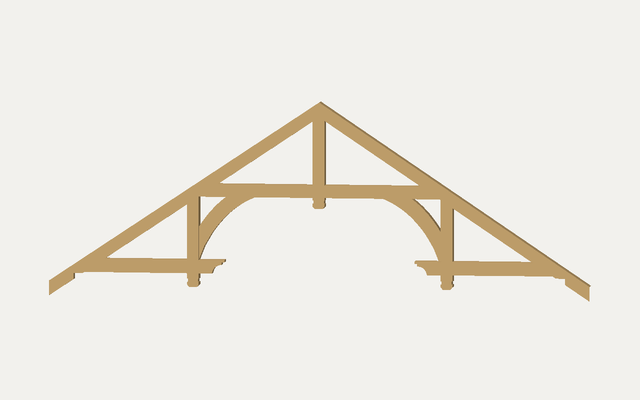
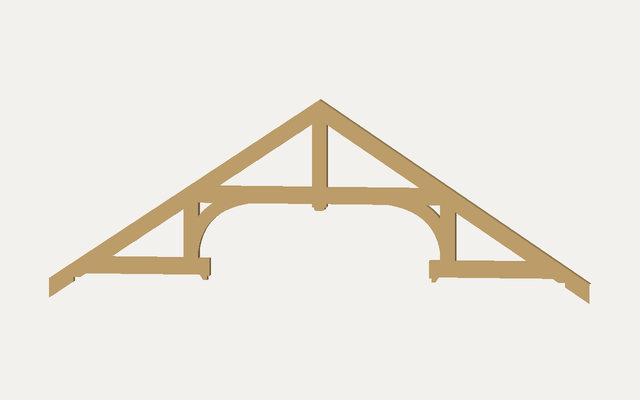
Repair connected Arched King and Hammer trusses above 16 feet

diff --git a/components/pavilion/reference-scene.tsx b/components/pavilion/reference-scene.tsx
@@ -873,5 +873,5 @@ const snowRailAdjust = useMemo(() => {
       position: snowRailPositionIn,
     };
   }, [roofMat.type, snowRailScale, snowRailRotationDeg, snowRailPositionIn, METAL_SNOW_RAIL_ADJUST]);
-return <SnowRailAdjustContext.Provider value={snowRailAdjust}><Scene showDimensions={props.showDimensions} padTileScale={padTileScale} measureEnabled={props.measureEnabled} config={config} view={props.view} allowUnderside={true} showRoof={props.showRoof} showTrusses={showTrusses} showFrame={showFrame} showRafters={showRafters} showPad={props.showPad} showTable={props.showTable} showSectional={props.showSectional} showEgg={props.showEgg} eggOffset={{ x: clampedEggOffset.x * 0.0254, z: clampedEggOffset.z * 0.0254 }} eggRotation={eggRotationDeg * Math.PI / 180} showTv={props.showTv} tvCorner={tvCorner} tvHeightFt={Math.max(5, Math.min(config.height - 2, tvHeightFt))} showDining={props.showDining} diningOffset={{ x: clampedDiningOffset.x * 0.0254, z: clampedDiningOffset.z * 0.0254 }} diningRotation={diningRotationDeg * Math.PI / 180} showPatio={props.showPatio} patioOffset={{ x: clampedPatioOffset.x * 0.0254, z: clampedPatioOffset.z * 0.0254 }} patioRotation={patioRotationDeg * Math.PI / 180} sofaOffset={{ x: clampedSofaOffset.x * 0.0254, z: clampedSofaOffset.z * 0.0254 }} sofaRotation={sofaRotationDeg * Math.PI / 180} tableOffset={{ x: clampedTableOffset.x * 0.0254, z: clampedTableOffset.z * 0.0254 }} tableRotation={tableRotationDeg * Math.PI / 180} tableStain={props.tableStain} deckStain={props.deckStain} stainOpacity={stainOpacity} stainDarkness={stainDarkness} grainAdjust={grainAdjust} grainPieces={grainPieces} grainFaces={grainFaces} handPeeledRandom={handPeeledRandom} rakeTrimAdjust={rakeTrimAdjust} metalRakeTrimAdjust={metalRakeTrimAdjust} shingleScale={shingleScale} shingleContrast={shingleContrast} shingleBrightness={shingleBrightness} shingleSaturate={shingleSaturate} shingleBumpScale={shingleBumpScale} shingleRoughness={shingleRoughness} shingleCapRotation={shingleCapRotation} shingleCapScale={shingleCapScale} shingleCapOffset={shingleCapOffset} shingleCapTextureScale={shingleCapTextureScale} hammerYOffset={hammerYOffsetIn * 0.0254} hammerScale={hammerScale} hammerGroupOffset={is20Wide ? { x: HAMMER20_BAKED_GROUP_OFFSET_IN.x * 0.0254, y: HAMMER20_BAKED_GROUP_OFFSET_IN.y * 0.0254, z: HAMMER20_BAKED_GROUP_OFFSET_IN.z * 0.0254 } : { x: 0, y: 0, z: 0 }} hammerCorbelScale={hammerCorbelScale} hammerCorbelOffset={{ x: hammerCorbelOffset.x * 0.0254, y: hammerCorbelOffset.y * 0.0254, z: hammerCorbelOffset.z * 0.0254 }} hammerCorbelRotation={{ x: hammerCorbelRotation.x * Math.PI / 180, y: hammerCorbelRotation.y * Math.PI / 180, z: hammerCorbelRotation.z * Math.PI / 180 }} hammerPieceOffsets={hammerPieceOffsets} hammerPieceScales={hammerPieceScales} hammerUniformProfile55={hammerUniformProfile55} hammer12Glb={hammer12GlbAdjust} hammer14Glb={hammer14GlbAdjust} hammer16Glb={hammer16GlbAdjust} hammer20Glb={hammer20GlbAdjust} plateOffset={{ x: plateOffsetIn.x * 0.0254, y: plateOffsetIn.y * 0.0254, z: plateOffsetIn.z * 0.0254 }} plateRotation={{ x: plateRotationDeg.x * Math.PI / 180, y: plateRotationDeg.y * Math.PI / 180, z: plateRotationDeg.z * Math.PI / 180 }} plateSizeScale={plateSizeScale} webPlateOffset={{ x: webPlateOffsetIn.x * 0.0254, y: webPlateOffsetIn.y * 0.0254, z: webPlateOffsetIn.z * 0.0254 }} webPlateRotation={{ x: webPlateRotationDeg.x * Math.PI / 180, y: webPlateRotationDeg.y * Math.PI / 180, z: webPlateRotationDeg.z * Math.PI / 180 }} webPlateSizeScale={webPlateSizeScale} vPlateSurfaceInset={vPlateSurfaceInsetIn * 0.0254} webPlateSurfaceInset={webPlateSurfaceInsetIn * 0.0254} peakPlateOffset={{ x: peakPlateOffsetIn.x * 0.0254, y: peakPlateOffsetIn.y * 0.0254, z: peakPlateOffsetIn.z * 0.0254 }} peakPlateRotation={{ x: peakPlateRotationDeg.x * Math.PI / 180, y: peakPlateRotationDeg.y * Math.PI / 180, z: peakPlateRotationDeg.z * Math.PI / 180 }} peakPlateSizeScale={peakPlateSizeScale} peakPlateSurfaceInset={peakPlateSurfaceInsetIn * 0.0254} archPlateOffset={{ x: archPlateOffsetIn.x * 0.0254, y: archPlateOffsetIn.y * 0.0254, z: archPlateOffsetIn.z * 0.0254 }} archPlateRotation={{ x: archPlateRotationDeg.x * Math.PI / 180, y: archPlateRotationDeg.y * Math.PI / 180, z: archPlateRotationDeg.z * Math.PI / 180 }} archPlateSizeScale={archPlateSizeScale} simplePlateOffset={{ x: simplePlateOffsetIn.x * 0.0254, y: simplePlateOffsetIn.y * 0.0254, z: simplePlateOffsetIn.z * 0.0254 }} simplePlateRotation={{ x: simplePlateRotationDeg.x * Math.PI / 180, y: simplePlateRotationDeg.y * Math.PI / 180, z: simplePlateRotationDeg.z * Math.PI / 180 }} simplePlateSizeScale={simplePlateSizeScale} topPlateOffset={{ x: topPlateOffsetIn.x * 0.0254, y: topPlateOffsetIn.y * 0.0254, z: topPlateOffsetIn.z * 0.0254 }} topPlateRotation={{ x: topPlateRotationDeg.x * Math.PI / 180, y: topPlateRotationDeg.y * Math.PI / 180, z: topPlateRotationDeg.z * Math.PI / 180 }} topPlateSizeScale={topPlateSizeScale} webPlate2Offset={{ x: webPlate2OffsetIn.x * 0.0254, y: webPlate2OffsetIn.y * 0.0254, z: webPlate2OffsetIn.z * 0.0254 }} webPlate2Rotation={{ x: webPlate2RotationDeg.x * Math.PI / 180, y: webPlate2RotationDeg.y * Math.PI / 180, z: webPlate2RotationDeg.z * Math.PI / 180 }} webPlate2SizeScale={webPlate2SizeScale} kingPeakPlateOffset={{ x: kingPeakPlateOffsetIn.x * 0.0254, y: kingPeakPlateOffsetIn.y * 0.0254, z: kingPeakPlateOffsetIn.z * 0.0254 }} kingPeakPlateRotation={{ x: kingPeakPlateRotationDeg.x * Math.PI / 180, y: kingPeakPlateRotationDeg.y * Math.PI / 180, z: kingPeakPlateRotationDeg.z * Math.PI / 180 }} kingPeakPlateSizeScale={kingPeakPlateSizeScale} kingHeelPlateOffset={{ x: kingHeelPlateOffsetIn.x * 0.0254, y: kingHeelPlateOffsetIn.y * 0.0254, z: kingHeelPlateOffsetIn.z * 0.0254 }} kingHeelPlateRotation={{ x: kingHeelPlateRotationDeg.x * Math.PI / 180, y: kingHeelPlateRotationDeg.y * Math.PI / 180, z: kingHeelPlateRotationDeg.z * Math.PI / 180 }} kingHeelPlateSizeScale={kingHeelPlateSizeScale} kingWebPlateOffset={{ x: kingWebPlateOffsetIn.x * 0.0254, y: kingWebPlateOffsetIn.y * 0.0254, z: kingWebPlateOffsetIn.z * 0.0254 }} kingWebPlateRotation={{ x: kingWebPlateRotationDeg.x * Math.PI / 180, y: kingWebPlateRotationDeg.y * Math.PI / 180, z: kingWebPlateRotationDeg.z * Math.PI / 180 }} kingWebPlateSizeScale={kingWebPlateSizeScale} kingHeelPlate2Offset={{ x: kingHeelPlate2OffsetIn.x * 0.0254, y: kingHeelPlate2OffsetIn.y * 0.0254, z: kingHeelPlate2OffsetIn.z * 0.0254 }} kingHeelPlate2Rotation={{ x: kingHeelPlate2RotationDeg.x * Math.PI / 180, y: kingHeelPlate2RotationDeg.y * Math.PI / 180, z: kingHeelPlate2RotationDeg.z * Math.PI / 180 }} kingHeelPlate2SizeScale={kingHeelPlate2SizeScale} trussPlateExtraOffsets={trussPlateExtraOffsets}  grassDensity={grassDensity} grassTint={grassTint} grassTexture={grassTexture} rawBeamColor={rawBeamColor} rawDeckColor={rawDeckColor} roofOnlyLiftIn={config.truss === "hammer" ? (roofOnlyLiftByWidth[config.width] ?? 0) : 0} pieceAdjusts={pieceAdjusts} cloudSpread={cloudSpread} cloudConcentration={cloudConcentration} cloudHeight={cloudHeight} showBackyard={props.showBackyard}  /></SnowRailAdjustContext.Provider>;
+return <SnowRailAdjustContext.Provider value={snowRailAdjust}><Scene showDimensions={props.showDimensions} padTileScale={padTileScale} measureEnabled={props.measureEnabled} config={config} view={props.view} allowUnderside={true} showRoof={props.showRoof} showTrusses={showTrusses} showFrame={showFrame} showRafters={showRafters} showPad={props.showPad} showTable={props.showTable} showSectional={props.showSectional} showEgg={props.showEgg} eggOffset={{ x: clampedEggOffset.x * 0.0254, z: clampedEggOffset.z * 0.0254 }} eggRotation={eggRotationDeg * Math.PI / 180} showTv={props.showTv} tvCorner={tvCorner} tvHeightFt={Math.max(5, Math.min(config.height - 2, tvHeightFt))} showDining={props.showDining} diningOffset={{ x: clampedDiningOffset.x * 0.0254, z: clampedDiningOffset.z * 0.0254 }} diningRotation={diningRotationDeg * Math.PI / 180} showPatio={props.showPatio} patioOffset={{ x: clampedPatioOffset.x * 0.0254, z: clampedPatioOffset.z * 0.0254 }} patioRotation={patioRotationDeg * Math.PI / 180} sofaOffset={{ x: clampedSofaOffset.x * 0.0254, z: clampedSofaOffset.z * 0.0254 }} sofaRotation={sofaRotationDeg * Math.PI / 180} tableOffset={{ x: clampedTableOffset.x * 0.0254, z: clampedTableOffset.z * 0.0254 }} tableRotation={tableRotationDeg * Math.PI / 180} tableStain={props.tableStain} deckStain={props.deckStain} stainOpacity={stainOpacity} stainDarkness={stainDarkness} grainAdjust={grainAdjust} grainPieces={grainPieces} grainFaces={grainFaces} handPeeledRandom={handPeeledRandom} rakeTrimAdjust={rakeTrimAdjust} metalRakeTrimAdjust={metalRakeTrimAdjust} shingleScale={shingleScale} shingleContrast={shingleContrast} shingleBrightness={shingleBrightness} shingleSaturate={shingleSaturate} shingleBumpScale={shingleBumpScale} shingleRoughness={shingleRoughness} shingleCapRotation={shingleCapRotation} shingleCapScale={shingleCapScale} shingleCapOffset={shingleCapOffset} shingleCapTextureScale={shingleCapTextureScale} hammerYOffset={hammerYOffsetIn * 0.0254} hammerScale={hammerScale} hammerGroupOffset={is20Wide ? { x: HAMMER20_BAKED_GROUP_OFFSET_IN.x * 0.0254, y: HAMMER20_BAKED_GROUP_OFFSET_IN.y * 0.0254, z: HAMMER20_BAKED_GROUP_OFFSET_IN.z * 0.0254 } : { x: 0, y: 0, z: 0 }} hammerCorbelScale={hammerCorbelScale} hammerCorbelOffset={{ x: hammerCorbelOffset.x * 0.0254, y: hammerCorbelOffset.y * 0.0254, z: hammerCorbelOffset.z * 0.0254 }} hammerCorbelRotation={{ x: hammerCorbelRotation.x * Math.PI / 180, y: hammerCorbelRotation.y * Math.PI / 180, z: hammerCorbelRotation.z * Math.PI / 180 }} hammerPieceOffsets={hammerPieceOffsets} hammerPieceScales={hammerPieceScales} hammerUniformProfile55={hammerUniformProfile55} hammer12Glb={hammer12GlbAdjust} hammer14Glb={hammer14GlbAdjust} hammer16Glb={hammer16GlbAdjust} hammer20Glb={hammer20GlbAdjust} plateOffset={{ x: plateOffsetIn.x * 0.0254, y: plateOffsetIn.y * 0.0254, z: plateOffsetIn.z * 0.0254 }} plateRotation={{ x: plateRotationDeg.x * Math.PI / 180, y: plateRotationDeg.y * Math.PI / 180, z: plateRotationDeg.z * Math.PI / 180 }} plateSizeScale={plateSizeScale} webPlateOffset={{ x: webPlateOffsetIn.x * 0.0254, y: webPlateOffsetIn.y * 0.0254, z: webPlateOffsetIn.z * 0.0254 }} webPlateRotation={{ x: webPlateRotationDeg.x * Math.PI / 180, y: webPlateRotationDeg.y * Math.PI / 180, z: webPlateRotationDeg.z * Math.PI / 180 }} webPlateSizeScale={webPlateSizeScale} vPlateSurfaceInset={vPlateSurfaceInsetIn * 0.0254} webPlateSurfaceInset={webPlateSurfaceInsetIn * 0.0254} peakPlateOffset={{ x: peakPlateOffsetIn.x * 0.0254, y: peakPlateOffsetIn.y * 0.0254, z: peakPlateOffsetIn.z * 0.0254 }} peakPlateRotation={{ x: peakPlateRotationDeg.x * Math.PI / 180, y: peakPlateRotationDeg.y * Math.PI / 180, z: peakPlateRotationDeg.z * Math.PI / 180 }} peakPlateSizeScale={peakPlateSizeScale} peakPlateSurfaceInset={peakPlateSurfaceInsetIn * 0.0254} archPlateOffset={{ x: archPlateOffsetIn.x * 0.0254, y: archPlateOffsetIn.y * 0.0254, z: archPlateOffsetIn.z * 0.0254 }} archPlateRotation={{ x: archPlateRotationDeg.x * Math.PI / 180, y: archPlateRotationDeg.y * Math.PI / 180, z: archPlateRotationDeg.z * Math.PI / 180 }} archPlateSizeScale={archPlateSizeScale} simplePlateOffset={{ x: simplePlateOffsetIn.x * 0.0254, y: simplePlateOffsetIn.y * 0.0254, z: simplePlateOffsetIn.z * 0.0254 }} simplePlateRotation={{ x: simplePlateRotationDeg.x * Math.PI / 180, y: simplePlateRotationDeg.y * Math.PI / 180, z: simplePlateRotationDeg.z * Math.PI / 180 }} simplePlateSizeScale={simplePlateSizeScale} topPlateOffset={{ x: topPlateOffsetIn.x * 0.0254, y: topPlateOffsetIn.y * 0.0254, z: topPlateOffsetIn.z * 0.0254 }} topPlateRotation={{ x: topPlateRotationDeg.x * Math.PI / 180, y: topPlateRotationDeg.y * Math.PI / 180, z: topPlateRotationDeg.z * Math.PI / 180 }} topPlateSizeScale={topPlateSizeScale} webPlate2Offset={{ x: webPlate2OffsetIn.x * 0.0254, y: webPlate2OffsetIn.y * 0.0254, z: webPlate2OffsetIn.z * 0.0254 }} webPlate2Rotation={{ x: webPlate2RotationDeg.x * Math.PI / 180, y: webPlate2RotationDeg.y * Math.PI / 180, z: webPlate2RotationDeg.z * Math.PI / 180 }} webPlate2SizeScale={webPlate2SizeScale} kingPeakPlateOffset={{ x: kingPeakPlateOffsetIn.x * 0.0254, y: kingPeakPlateOffsetIn.y * 0.0254, z: kingPeakPlateOffsetIn.z * 0.0254 }} kingPeakPlateRotation={{ x: kingPeakPlateRotationDeg.x * Math.PI / 180, y: kingPeakPlateRotationDeg.y * Math.PI / 180, z: kingPeakPlateRotationDeg.z * Math.PI / 180 }} kingPeakPlateSizeScale={kingPeakPlateSizeScale} kingHeelPlateOffset={{ x: kingHeelPlateOffsetIn.x * 0.0254, y: kingHeelPlateOffsetIn.y * 0.0254, z: kingHeelPlateOffsetIn.z * 0.0254 }} kingHeelPlateRotation={{ x: kingHeelPlateRotationDeg.x * Math.PI / 180, y: kingHeelPlateRotationDeg.y * Math.PI / 180, z: kingHeelPlateRotationDeg.z * Math.PI / 180 }} kingHeelPlateSizeScale={kingHeelPlateSizeScale} kingWebPlateOffset={{ x: kingWebPlateOffsetIn.x * 0.0254, y: kingWebPlateOffsetIn.y * 0.0254, z: kingWebPlateOffsetIn.z * 0.0254 }} kingWebPlateRotation={{ x: kingWebPlateRotationDeg.x * Math.PI / 180, y: kingWebPlateRotationDeg.y * Math.PI / 180, z: kingWebPlateRotationDeg.z * Math.PI / 180 }} kingWebPlateSizeScale={kingWebPlateSizeScale} kingHeelPlate2Offset={{ x: kingHeelPlate2OffsetIn.x * 0.0254, y: kingHeelPlate2OffsetIn.y * 0.0254, z: kingHeelPlate2OffsetIn.z * 0.0254 }} kingHeelPlate2Rotation={{ x: kingHeelPlate2RotationDeg.x * Math.PI / 180, y: kingHeelPlate2RotationDeg.y * Math.PI / 180, z: kingHeelPlate2RotationDeg.z * Math.PI / 180 }} kingHeelPlate2SizeScale={kingHeelPlate2SizeScale} trussPlateExtraOffsets={trussPlateExtraOffsets}  grassDensity={grassDensity} grassTint={grassTint} grassTexture={grassTexture} rawBeamColor={rawBeamColor} rawDeckColor={rawDeckColor} roofOnlyLiftIn={config.truss === "hammer" && config.width <= 16 ? (roofOnlyLiftByWidth[config.width] ?? 0) : 0} pieceAdjusts={pieceAdjusts} cloudSpread={cloudSpread} cloudConcentration={cloudConcentration} cloudHeight={cloudHeight} showBackyard={props.showBackyard}  /></SnowRailAdjustContext.Provider>;
 }

diff --git a/components/pavilion/Pavilion3D.tsx b/components/pavilion/Pavilion3D.tsx
@@ -1,3 +1,4 @@
+import {createWideTruss,type WideTrussStyle} from './wide-truss-geometry';
 import {expandedFrame,pavilionStations} from '@/lib/pavilion-layout';
 import { configureTimberMaterial } from './timber-grain';
 import { snowGuardPositions, snowRailLength, snowRoofLength } from '@/lib/snow-retention';
@@ -2076,7 +2077,7 @@ function SteelVJointPlate({
   );
 }
 
-function RuntimeArchTruss({
+function SmallRuntimeArchTruss({
   span,
   z,
   baseY,
@@ -2168,7 +2169,7 @@ function RuntimeArchTruss({
   );
 }
 
-function RuntimeHammerTruss({
+function SmallRuntimeHammerTruss({
   span,
   z,
   baseY,
@@ -2266,6 +2267,27 @@ function RuntimeHammerTruss({
 
 
 
+function WideTruss({style,span,z,baseY,peakY,color,memberHeightIn=6,plates=false,seatLower=0,tailStyle="standard",isOuter=true,exteriorFace=1}: {
+  style:WideTrussStyle;span:number;z:number;baseY:number;peakY:number;color:string;memberHeightIn?:number;
+  plates?:boolean;seatLower?:number;tailStyle?:"standard"|"scroll";isOuter?:boolean;exteriorFace?:1|-1;
+}) {
+  const rise=peakY-baseY;
+  const model=useMemo(()=>createWideTruss(style,span,rise,memberHeightIn),[style,span,rise,memberHeightIn]);
+  useEffect(()=>()=>{model.members.forEach(m=>m.geometry.dispose());model.plates.forEach(p=>p.geometry.dispose());},[model]);
+  const pitchAngle=Math.atan(model.pitch),half=span/2,IN=.0254;
+  return <group name={`wide-${style}-truss`} position={[0,baseY,z]}>
+    {([-1,1] as const).map(side=><PlumbRafter key={side} iy={rise} outerX={half+16*IN} pitchAngle={pitchAngle} t={model.profile} depth={model.depth} side={side} color={color} seatX={half+4*IN} seatY={-seatLower} piece={`wide.${style}.rafter.${side<0?'l':'r'}`} tailStyle={tailStyle} parametricTail />)}
+    {model.members.map(m=><mesh key={m.id} geometry={m.geometry} castShadow receiveShadow><WoodMaterial color={color} category="truss" piece={m.id} singleMaterial /></mesh>)}
+    {plates&&model.plates.flatMap(p=>(p.peak?(isOuter?[exteriorFace]:[]):[1,-1]).map(face=><mesh key={p.id+face} geometry={p.geometry} position={[0,0,face*(model.depth/2+.125*IN+.0005)]} castShadow receiveShadow><meshStandardMaterial color="#141414" roughness={.4} metalness={.85}/></mesh>))}
+  </group>;
+}
+function RuntimeArchTruss(props:Omit<Parameters<typeof WideTruss>[0],'style'>) {
+  return <WideTruss {...props} style="arch" />;
+}
+function RuntimeHammerTruss({showPeakPlate=true,peakPlateFace=1,...props}:Omit<Parameters<typeof WideTruss>[0],'style'|'isOuter'|'exteriorFace'>&{showPeakPlate?:boolean;peakPlateFace?:1|-1|0}) {
+  return <WideTruss {...props} style="hammer" isOuter={showPeakPlate&&peakPlateFace!==0} exteriorFace={peakPlateFace===-1?-1:1} />;
+}
+
 function ArchedBrace({
   postX,
   postZ,
@@ -2332,6 +2354,7 @@ function PlumbRafter({
   seatY = 0,
   piece,
   tailStyle = "standard",
+  parametricTail = false,
 }: {
   iy: number;
   outerX: number;
@@ -2344,6 +2367,7 @@ function PlumbRafter({
   seatY?: number;
   piece?: string;
   tailStyle?: "standard" | "scroll";
+  parametricTail?: boolean;
 }) {
   const scrollGeom = useScrollCutRafterGeometry(outerX / Math.cos(pitchAngle), t, depth);
   const geom = useMemo(() => {
@@ -2451,7 +2475,7 @@ function PlumbRafter({
     }
     return g;
   }, [iy, outerX, pitchAngle, t, depth, side, seatX, seatY, tailStyle]);
-  if (tailStyle === "scroll") {
+  if (tailStyle === "scroll" && !parametricTail) {
     // Render the uploaded scroll-cut rafter STL in place of the procedural shape.
     // Peak/top-edge of the STL is at (0,0); pivot at the rafter's inner-top
     // corner (matches PlumbRafter's local frame), then mirror + rotate down.
@@ -3918,8 +3942,9 @@ export function Pavilion({ config, showRoof = true, showTrusses = true, showFram
   // Lift roof so its underside sits on top of the truss/rafter top edges.
   // Rafters seat on top of the girder (lift = beamT/2 above beamY), and the
   // rafter top edge is rafterT / cos(angle) above the rafter seat.
-  // Sheet profiles describe the King package; alternate styles retain their authored geometry.
-  const rafterHeightIn = frame && (frame.runtimeTruss || config.truss === "king" || config.truss === "none") ? frame.rafterIn[1] : 6;
+  // Wider alternate trusses share the sheet rafter section and roof envelope.
+  // The established 12–16-foot alternate drawings retain their original section.
+  const rafterHeightIn = frame && (config.width > 16 || frame.runtimeTruss || config.truss === "king" || config.truss === "none") ? frame.rafterIn[1] : 6;
   const rafterT = rafterHeightIn * 0.0254;
   const slopeLen = Math.hypot(1, pitch);
   // Raise the trusses + rafters as one piece so the birdsmouth notch can be
@@ -3975,7 +4000,7 @@ export function Pavilion({ config, showRoof = true, showTrusses = true, showFram
       <PieceAdjuster
         rootRef={pavRootRef}
         adjusts={(() => {
-          const src = pieceAdjusts ?? {};
+          const src = config.width > 16 && (config.truss === "arch" || config.truss === "hammer") ? {} : pieceAdjusts ?? {};
           // Rafter pieces are only adjustable when scroll-cut tails are
           // selected. With standard tails, rafter positions stay baked.
           const filtered: Record<string, PieceAdjust> = {};
@@ -4191,20 +4216,19 @@ export function Pavilion({ config, showRoof = true, showTrusses = true, showFram
               tailStyle: config.rafterTail,
             };
             if (config.truss === "arch") {
-              if (frame?.runtimeTruss || isLargeRuntimeSpan(common.span)) {
+              if (config.width > 16) {
                 return <RuntimeArchTruss key={`rat-${i}`} {...common} memberHeightIn={rafterHeightIn} plates={config.trussPlates} isOuter={i === 0 || i === count - 1} exteriorFace={i === 0 ? -1 : 1} />;
               }
+              if(frame?.runtimeTruss)return <SmallRuntimeArchTruss key={`sat-${i}`} {...common} memberHeightIn={rafterHeightIn} isOuter={i===0||i===count-1} exteriorFace={i===0?-1:1}/>;
               return <ArchTruss key={`at-${i}`} {...common} plates={config.trussPlates} archPlateOffset={archPlateOffset} archPlateRotation={archPlateRotation} archPlateSizeScale={archPlateSizeScale} simplePlateOffset={simplePlateOffset} simplePlateRotation={simplePlateRotation} simplePlateSizeScale={simplePlateSizeScale} topPlateOffset={topPlateOffset} topPlateRotation={topPlateRotation} topPlateSizeScale={topPlateSizeScale} webPlate2Offset={webPlate2Offset} webPlate2Rotation={webPlate2Rotation} webPlate2SizeScale={webPlate2SizeScale} isOuter={i === 0 || i === count - 1} exteriorFace={i === 0 ? -1 : 1} />;
             }
             if (config.truss === "hammer") {
-              if (frame?.runtimeTruss || isLargeRuntimeSpan(common.span)) {
+              if (config.width > 16) {
                 return <RuntimeHammerTruss key={`rht-${i}`} {...common} memberHeightIn={rafterHeightIn} plates={config.trussPlates} showPeakPlate={i === 0 || i === count - 1} peakPlateFace={i === 0 ? -1 : i === count - 1 ? 1 : 0} />;
               }
-              // Every hand-modeled hammer GLB auto-fits its widest horizontal
-              // axis to the requested `span`, so widths above 20′ (24/28/32)
-              // safely reuse the 20′ GLB stretched to the larger pavilion span
-              // instead of falling through to the older procedural truss which
-              // was never calibrated past ~16′.
+              if(frame?.runtimeTruss)return <SmallRuntimeHammerTruss key={`sht-${i}`} {...common} memberHeightIn={rafterHeightIn} showPeakPlate={i===0||i===count-1} peakPlateFace={i===0?-1:i===count-1?1:0}/>;
+              // Preserve the established small-span procedural drawings.
+              // Wider spans have already returned the connected WideTruss above.
               if (
                 config.width === 12 ||
                 config.width === 14 ||
@@ -4310,6 +4334,7 @@ export function Pavilion({ config, showRoof = true, showTrusses = true, showFram
                   seatX={half + 4 * IN}
                   seatY={-TRUSS_LIFT}
                   piece={`side.rafter.${s === 1 ? "r" : "l"}`}
+                  parametricTail={config.width>16&&(config.truss==="arch"||config.truss==="hammer")}
                   tailStyle={config.rafterTail}
                 />
               ))}
@@ -4350,6 +4375,7 @@ export function Pavilion({ config, showRoof = true, showTrusses = true, showFram
                   side={s as 1 | -1}
                   color={wood}
                   piece={`side.rafter.${s === 1 ? "r" : "l"}`}
+                  parametricTail={config.width>16&&(config.truss==="arch"||config.truss==="hammer")}
                   tailStyle={config.rafterTail}
                 />
               ))}

diff --git a/components/pavilion/wide-truss-geometry.ts b/components/pavilion/wide-truss-geometry.ts
@@ -1,0 +1,89 @@
+import * as THREE from 'three';
+
+type Point = [number, number];
+export type WideTrussStyle = 'arch' | 'hammer';
+export type WideMember = {id:string;geometry:THREE.BufferGeometry;outline:Point[]};
+export type WideJoint = {id:string;point:Point;width:number;height:number;angle?:number;peak?:boolean};
+
+const IN=.0254;
+function rectangle(a:Point,b:Point,thickness:number):Point[] {
+  const length=Math.hypot(b[0]-a[0],b[1]-a[1]);
+  const x=-(b[1]-a[1])/length*thickness/2,y=(b[0]-a[0])/length*thickness/2;
+  return [[a[0]+x,a[1]+y],[b[0]+x,b[1]+y],[b[0]-x,b[1]-y],[a[0]-x,a[1]-y]];
+}
+function clip(points:Point[],a:number,b:number,limit:number):Point[] {
+  const result:Point[]=[];
+  for(let i=0;i<points.length;i++){
+    const p=points[i],q=points[(i+1)%points.length],d=a*p[0]+b*p[1]-limit,e=a*q[0]+b*q[1]-limit;
+    if(d<=0)result.push(p);
+    if((d<=0)!==(e<=0)){const t=d/(d-e);result.push([p[0]+t*(q[0]-p[0]),p[1]+t*(q[1]-p[1])]);}
+  }
+  return result;
+}
+export function extrudeOutline(outline:Point[],depth:number) {
+  const shape=new THREE.Shape(outline.map(p=>new THREE.Vector2(...p)));shape.closePath();
+  const geometry=new THREE.ExtrudeGeometry(shape,{depth,bevelEnabled:false,steps:1});
+  geometry.translate(0,0,-depth/2);geometry.computeBoundingBox();return geometry;
+}
+
+/** Connected, dimension-driven versions of the working 16-foot silhouettes.
+ * All positions use the same truss-local roof coordinates as the rafters.
+ * Member sections stay constant as span changes; no whole-model stretching or
+ * historical per-width offsets can pull these joints apart. */
+export function createWideTruss(style:WideTrussStyle,span:number,rise:number,memberHeightIn=6) {
+  const half=span/2,pitch=rise/half,profile=memberHeightIn*IN,depth=5.5*IN;
+  const roofTop=rise+profile*Math.hypot(1,pitch)/2;
+  const members:WideMember[]=[],joints:WideJoint[]=[];
+  const insideRoof=(points:Point[])=>clip(clip(points,pitch,1,roofTop-.001),-pitch,1,roofTop-.001);
+  const add=(id:string,points:Point[])=>{const outline=insideRoof(points);members.push({id:`wide.${style}.${id}`,outline,geometry:extrudeOutline(outline,depth)});};
+  const beam=(id:string,a:Point,b:Point,t=profile)=>add(id,rectangle(a,b,t));
+  const reflect=(points:Point[],side:number):Point[]=>points.map(([x,y])=>[side*x,y]);
+  const pendant=(id:string,bottom:number,top:number,w:number)=>add(id,[[-w/2,top],[w/2,top],[w/2,bottom+.22*profile],[w*.36,bottom+.22*profile],[w*.36,bottom+.08*profile],[w*.24,bottom],[-w*.24,bottom],[-w*.36,bottom+.08*profile],[-w*.36,bottom+.22*profile],[-w/2,bottom+.22*profile]]);
+  const kingTop=rise-profile*Math.hypot(1,pitch)/2+profile*.14;
+  if(style==='arch'){
+    const crown=rise*.38,archDepth=profile*.92;
+    // Two sawn curved chords share a continuous crown at the king post.
+    for(const side of [-1,1]){
+      const upper:Point[]=[],lower:Point[]=[];
+      for(let i=0;i<=48;i++){const x=half*i/48,y=crown*(1-(x/half)**2);upper.push([x,y+archDepth/2]);lower.push([x,y-archDepth/2]);}
+      add(`wing.${side<0?'l':'r'}`,reflect([...upper,...lower.reverse()],side));
+      const startX=profile*.25,startY=crown+profile*.18;
+      const endX=(rise-profile*Math.hypot(1,pitch)/2+profile*.14-startY+.8*startX)/(pitch+.8);
+      const endY=rise-pitch*endX-profile*Math.hypot(1,pitch)/2+profile*.14;
+      // Start inside the king/chord joint, rather than floating above the arch.
+      beam(`strut.${side<0?'l':'r'}`,[side*startX,startY],[side*endX,endY],profile*.78);
+      joints.push({id:`heel.${side}`,point:[side*(half-profile*.22),profile*.1],width:profile*1.25,height:profile*.72});
+      joints.push({id:`web.${side}`,point:[side*endX,endY],width:profile*.78,height:profile*1.15,angle:side*Math.atan(pitch)});
+    }
+    pendant('kingpost',crown-profile*1.12,kingTop,profile*.86);
+    joints.push({id:'crown',point:[0,crown],width:profile*1.15,height:profile*1.2});
+  } else {
+    const collarY=rise*.46,princeX=(rise-collarY)/pitch,beamY=profile*.08,innerX=princeX-profile*1.15;
+    // A continuous upper tie connects the princes and king post. End bevels
+    // are cut against the roof planes, not independently scaled drawings.
+    beam('collar',[-princeX-profile*.5,collarY],[princeX+profile*.5,collarY]);
+    pendant('kingpost',collarY-profile*.92,kingTop,profile*.88);
+    for(const side of [-1,1]){
+      const id=side<0?'l':'r',outer=half+profile*.08;
+      add(`hammer.${id}`,reflect([[outer,beamY+profile/2],[innerX,beamY+profile/2],[innerX,beamY-profile*.56],[innerX+profile*.16,beamY-profile*.56],[innerX+profile*.16,beamY-profile*.82],[innerX+profile*.4,beamY-profile*.82],[innerX+profile*.62,beamY-profile/2],[outer,beamY-profile/2]],side));
+      beam(`prince.${id}`,[side*princeX,beamY],[side*princeX,collarY],profile*.9);
+      // The curved knee spans from the hammer/prince joint to the underside
+      // of the upper tie, recreating the open central arch of the 16' design.
+      const curve=new THREE.QuadraticBezierCurve(new THREE.Vector2(princeX,beamY+profile*.18),new THREE.Vector2(princeX,collarY),new THREE.Vector2(princeX*.35,collarY));
+      const upper:Point[]=[],lower:Point[]=[];
+      for(let i=0;i<=48;i++){const t=i/48,p=curve.getPoint(t),v=curve.getTangent(t),n=new THREE.Vector2(-v.y,v.x).multiplyScalar(profile*.4);upper.push([p.x+n.x,p.y+n.y]);lower.push([p.x-n.x,p.y-n.y]);}
+      add(`knee.${id}`,reflect([...upper,...lower.reverse()],side));
+      joints.push({id:`heel.${side}`,point:[side*(half-profile*.25),beamY],width:profile*1.25,height:profile*.68});
+      joints.push({id:`prince.${side}`,point:[side*princeX,collarY-profile*.12],width:profile*1.15,height:profile*.92});
+    }
+    joints.push({id:'collar',point:[0,collarY],width:profile*1.2,height:profile*1.15});
+  }
+  joints.push({id:'peak',point:[0,rise-profile*.55],width:profile*.82,height:profile*1.15,peak:true});
+  // Plates are cut against exactly the same roof envelope as the timbers.
+  const plates=joints.map(j=>{
+    const c=Math.cos(j.angle??0),s=Math.sin(j.angle??0);
+    const points:Point[]=[[-j.width/2,-j.height/2],[j.width/2,-j.height/2],[j.width/2,j.height/2],[-j.width/2,j.height/2]].map(([x,y])=>[j.point[0]+x*c-y*s,j.point[1]+x*s+y*c]);
+    return {...j,geometry:extrudeOutline(insideRoof(points),.25*IN)};
+  });
+  return {members,plates,depth,profile,pitch,roofTop};
+}

diff --git a/docs/SOURCE_NOTES.md b/docs/SOURCE_NOTES.md
@@ -118,3 +118,11 @@ Added this release: 10×10, 10×14, 10×24; 18×18, 18×20 Hammerbeam, 18×32, 1
 10×10 is a prebuilt King package with a 6/12 roof. 18×20 offers the sheet's Hammerbeam package. 30×34, 30×40 and 32×32 start at the sheet's 10-foot post setting; 32×32 has a 6/12 roof. Size changes select compatible trusses and heights, and shared designs are validated against those restrictions. New width families use parametric trusses and joint plates with the sheet profiles. Curved timber members have flat faces and square edges; longitudinal grain mapping remains shared by all timbers. The 22×60 preview has fourteen posts, four trusses and twelve intermediate rafter pairs. All station positions remain symmetric visualization assumptions, not shop drawings. Existing post-height convention is retained.
 
 Published catalogs adopt only the added sizes' approved base roof prices once using a pricing revision marker. Original retail rows and per-option administrator overrides survive; subsequent admin blanks and zero prices also survive. Unknown option upgrades still require a quote, and blank bases still block deposits. The original snow unit rates remain unchanged. Offline validation covers all 75 added roof prices, all twelve original full records, framing counts and pitch, supported style/height combinations, saved links, price adoption, camera fits, and checkout guarding.
+
+## September 18, 2026 — wider Arched King and Hammer geometry repair
+
+All Arched King and Hammer spans above 16 feet now use connected, dimension-driven timber profiles fitted to the same pitch and roof envelope as their rafters. The Arched King struts meet the central king/chord joint. Hammer trusses have continuous upper collars, princes, and tall curved knees matching the topology of the working 16-foot design. Timber depth stays 5.5 inches instead of stretching with span. Wider frames ignore historical piece offsets and the old 20-foot Hammer roof lift. The 10/12/14/16-foot geometry remains on its existing paths. No catalog, pricing, workbook, or commerce behavior changed.
+
+Wide scroll-tail rafters use their actual section and birdsmouth coordinates rather than a separately scaled six-inch profile. Joint plates are trimmed to the roof envelope; outside peak plates are omitted from interior trusses. The twelve affected customer option previews were regenerated from the repaired geometry.
+
+Validation includes 84 width/pitch/section/style combinations with actual profile-overlap connectivity, roof clearance, plate attachment, fixed timber depth, curved openings and grain mapping. Software renders of all six customer widths (18/20/22/24/30/32), both styles, plates and scroll tails were visually reviewed. Original procedural geometry and all 37 footprints/75 added roof prices/original twelve complete price records pass regression checks. Browser automation could not connect to the local preview during this repair, so interactive WebGL inspection remains unverified. Geometry remains a configurator visualization rather than certified fabrication drawings.
